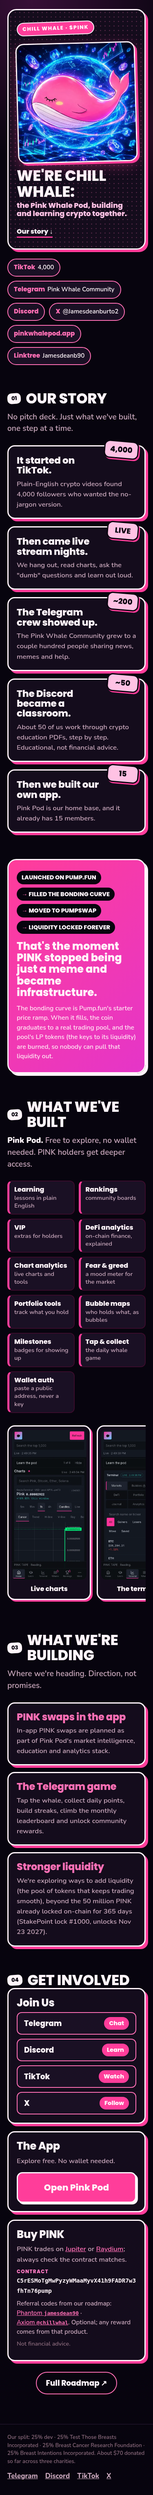
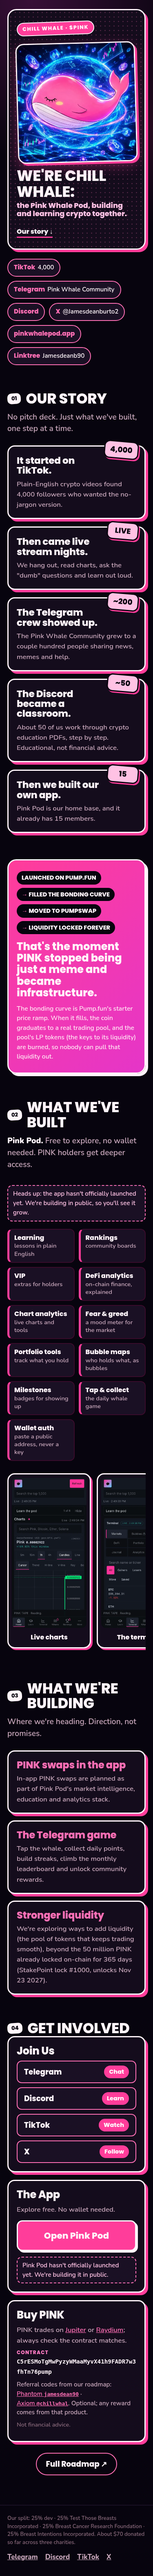
Open Pink Pod -> Telegram post 4947; add not-launched / building-in-public notes (t47u)

Changed region(s): [[0.0293, 0.0, 0.968, 0.9972], [0.9387, 0.4674, 0.968, 0.4986], [0.9093, 0.9349, 0.9387, 0.966]]

diff --git a/index.html b/index.html
@@ -90,6 +90,7 @@
 <section id="built" class="section">
   <h2><span class="kicker">02</span> What We've Built</h2>
   <p class="lede"><b>Pink Pod.</b> Free to explore, no wallet needed. PINK holders get deeper access.</p>
+  <p class="note">Heads up: the app hasn't officially launched yet. We're building in public, so you'll see it grow.</p>
   <ul class="features">
     <li><b>Learning</b> lessons in plain English</li>
     <li><b>Rankings</b> community boards</li>
@@ -136,7 +137,8 @@
     <div class="block">
       <h3>The App</h3>
       <p>Explore free. No wallet needed.</p>
-      <a class="btn" href="https://pinkwhalepod.app/">Open Pink Pod</a>
+      <a class="btn" href="https://t.me/PinkWhaleCommunity/4947" target="_blank" rel="noopener">Open Pink Pod</a>
+      <p class="note">Pink Pod hasn't officially launched yet. We're building it in public.</p>
     </div>
     <div class="block">
       <h3>Buy PINK</h3>

diff --git a/styles.css b/styles.css
@@ -113,3 +113,5 @@ h2{font-size:clamp(2.2rem,9vw,4.2rem);text-transform:uppercase;display:flex;alig
 @media (prefers-reduced-motion:reduce){html{scroll-behavior:auto}}
 .refs a{white-space:nowrap}
 body{background-attachment:fixed}
+.note{display:inline-block;margin:10px 0 18px;padding:8px 12px;border:2px dashed var(--pink);border-radius:12px;background:var(--tile);color:var(--pale)!important;font-size:.95rem}
+.block .note{margin:14px 0 0}
